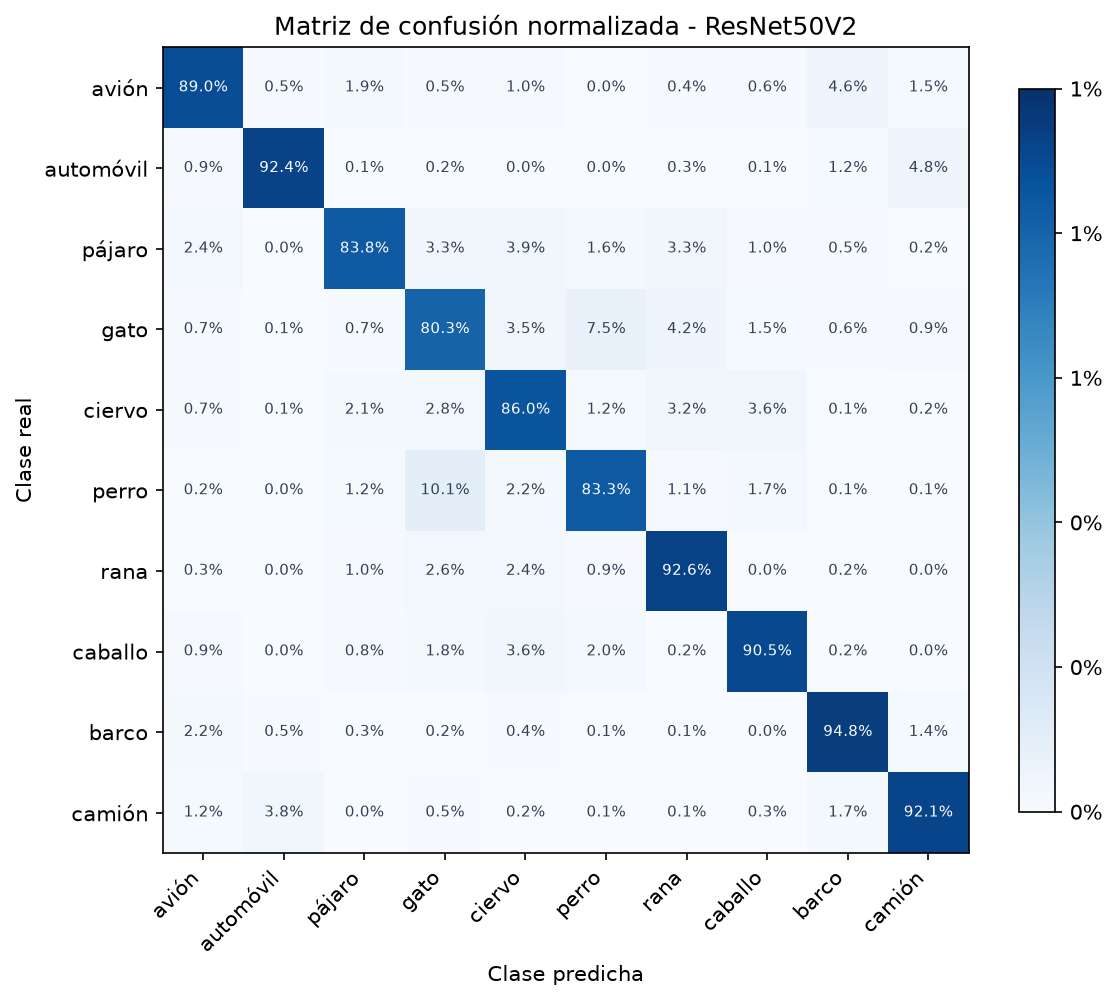
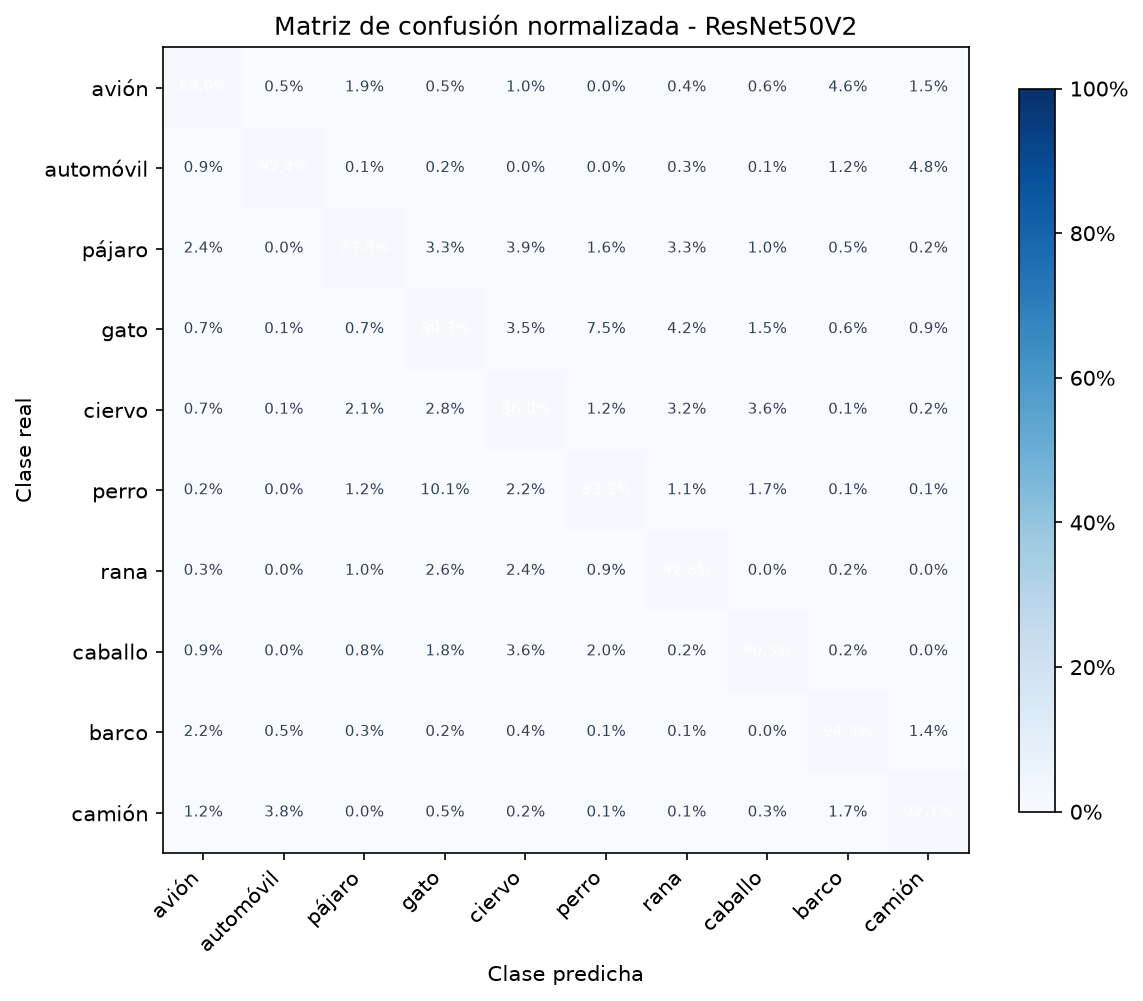
Se quitó tiempo real y despliegue y se arregló la barra de colores de la matriz de normalizada

diff --git a/templates/index.html b/templates/index.html
@@ -102,7 +102,7 @@
 
 <header>
   <h1>Sistema de clasificación de imágenes con CNN</h1>
-  <p>Sube una imagen y la red neuronal convolucional la clasificará en tiempo real en una de 10 categorías.</p>
+  <p>Sube una imagen y la red neuronal convolucional la clasificará en una de 10 categorías.</p>
   <p class="credito">Proyecto de grado — Andrés Caleb Murillo Cervantes &amp; Jesús Alberto Reales Ortiz · Universidad Libre, Barranquilla</p>
   <div class="clases-chips">
     <span class="chip">avión</span><span class="chip">automóvil</span><span class="chip">pájaro</span>
@@ -155,6 +155,8 @@
   mediante transferencia de aprendizaje sobre ResNet50V2 (preentrenada con ImageNet).
   La imagen que subas se redimensiona y se normaliza antes de pasar por la red,
   tal como se describe en el documento del proyecto.
+
+  Privacidad: La imagen seleccionada se procesa en memoria para realizar la clasificación y no se almacena en el servidor.
 </footer>
 
 <script>

diff --git a/app.py b/app.py
@@ -1,10 +1,10 @@
 # -*- coding: utf-8 -*-
 """
 Aplicación web (Flask) que sirve el modelo CNN entrenado para
-clasificación de imágenes en tiempo real.
+clasificación de imágenes.
 
 Proyecto de grado: "Desarrollo de un sistema de clasificación de imágenes
-mediante una red neuronal convolucional y despliegue en una aplicación web"
+mediante una red neuronal convolucional e integración en una aplicación web"
 Andrés Caleb Murillo Cervantes - Jesús Alberto Reales Ortiz
 Universidad Libre, seccional Barranquilla
 
@@ -19,6 +19,7 @@ import os
 import numpy as np
 from flask import Flask, jsonify, render_template, request
 from PIL import Image
+from werkzeug.exceptions import RequestEntityTooLarge
 
 os.environ.setdefault("TF_CPP_MIN_LOG_LEVEL", "2")
 import tensorflow as tf  # noqa: E402
@@ -27,6 +28,11 @@ RUTA = os.path.dirname(os.path.abspath(__file__))
 
 app = Flask(__name__)
 app.config["MAX_CONTENT_LENGTH"] = 10 * 1024 * 1024  # máx. 10 MB por imagen
+@app.errorhandler(RequestEntityTooLarge)
+def manejar_archivo_demasiado_grande(error):
+    return jsonify({
+        "error": "La imagen supera el tamaño máximo permitido de 10 MB."
+    }), 413
 
 # Carga del modelo entrenado y de las clases (una sola vez, al arrancar).
 # Si está disponible el modelo v2 (transferencia de aprendizaje) se usa ese;
@@ -95,4 +101,4 @@ def predecir():
 if __name__ == "__main__":
     print("\n  Sistema de clasificación de imágenes con CNN")
     print("  Abre en tu navegador:  http://localhost:5000\n")
-    app.run(host="0.0.0.0", port=5000, debug=False)
+    app.run(host="127.0.0.1", port=5000, debug=False)

diff --git a/entrenar.py b/entrenar.py
@@ -6,7 +6,7 @@ Entrenamiento del modelo CNN V1 para clasificación de imágenes CIFAR-10.
 
 Proyecto de grado:
 Desarrollo de un sistema de clasificación de imágenes mediante
-una red neuronal convolucional y despliegue en una aplicación web.
+una red neuronal convolucional e integración en una aplicación web.
 
 Protocolo experimental:
 - 40.000 imágenes para entrenamiento.

diff --git a/evaluar_v2.py b/evaluar_v2.py
@@ -222,7 +222,7 @@ im = eje.imshow(
     mc_normalizada,
     cmap="Blues",
     vmin=0,
-    vmax=1
+    vmax=100
 )
 
 eje.set_xticks(range(len(CLASES)))

diff --git a/README.md b/README.md
@@ -1,7 +1,7 @@
 # Sistema de clasificación de imágenes con CNN y aplicación web
 
 Implementación del proyecto de grado **"Desarrollo de un sistema de clasificación
-de imágenes mediante una red neuronal convolucional y despliegue en una
+de imágenes mediante una red neuronal convolucional e integración en una
 aplicación web"** — Andrés Caleb Murillo Cervantes y Jesús Alberto Reales Ortiz,
 Universidad Libre, seccional Barranquilla.
 
@@ -9,16 +9,14 @@ El sistema clasifica imágenes en **10 categorías** (avión, automóvil, pájar
 gato, ciervo, perro, rana, caballo, barco y camión) usando una red neuronal
 convolucional (CNN) entrenada con el dataset **CIFAR-10** (60.000 imágenes),
 integrada a una aplicación web local donde el usuario sube una imagen y recibe
-la predicción en tiempo real.
+la predicción.
 
 
-> **Importante:** la primera vez que arranques la app necesitas internet:
-> descargará automáticamente la base preentrenada ResNet50V2 (90 MB) desde
-> el repositorio oficial de Keras en GitHub. Después ya funciona sin conexión.
+
 
 ## Requisitos
 
-- Python 3.10 o superior (probado con 3.11)
+- Python 3.13.5
 - Conexión a internet solo para instalar las librerías la primera vez
 
 ## Cómo ejecutar la aplicación web (paso a paso)
